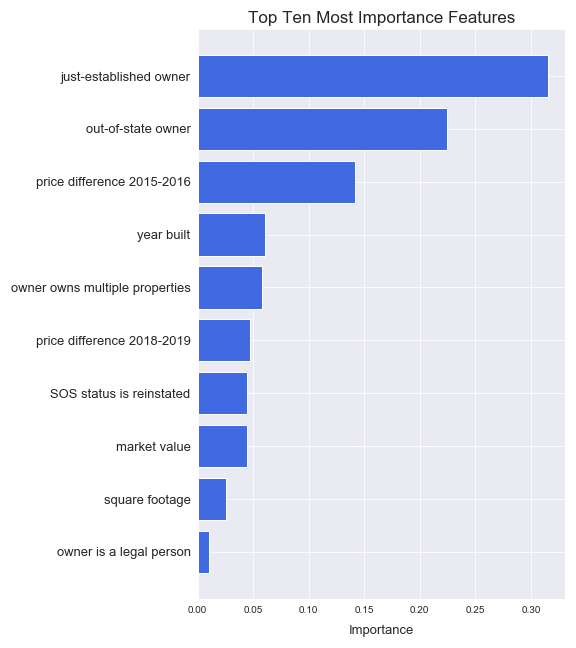
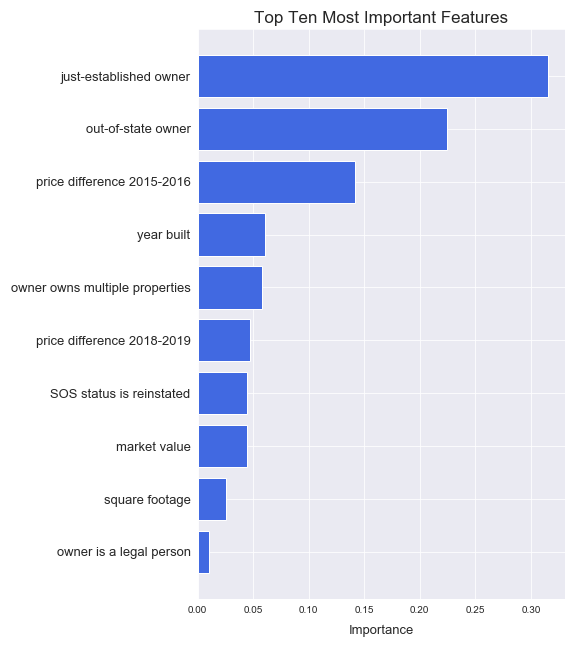
Fix spelling errors; clean up code

Changed region(s): [[0.4375, 0.0, 0.9062, 0.0617]]

diff --git a/build/process.py b/build/process.py
@@ -64,7 +64,7 @@ def engineer_features():
     dataframe['deed_charter_diff'] = dataframe['deed_dt'] - \
         dataframe['SOS Charter Date']
 
-    # 365 days is the defualt definition for "just-established"
+    # 365 days is the default definition for "just-established"
     dataframe['just_established_owner'] = np.where(
         dataframe['deed_charter_diff'] <= cfg['recently_founded'], 1, 0)
 
